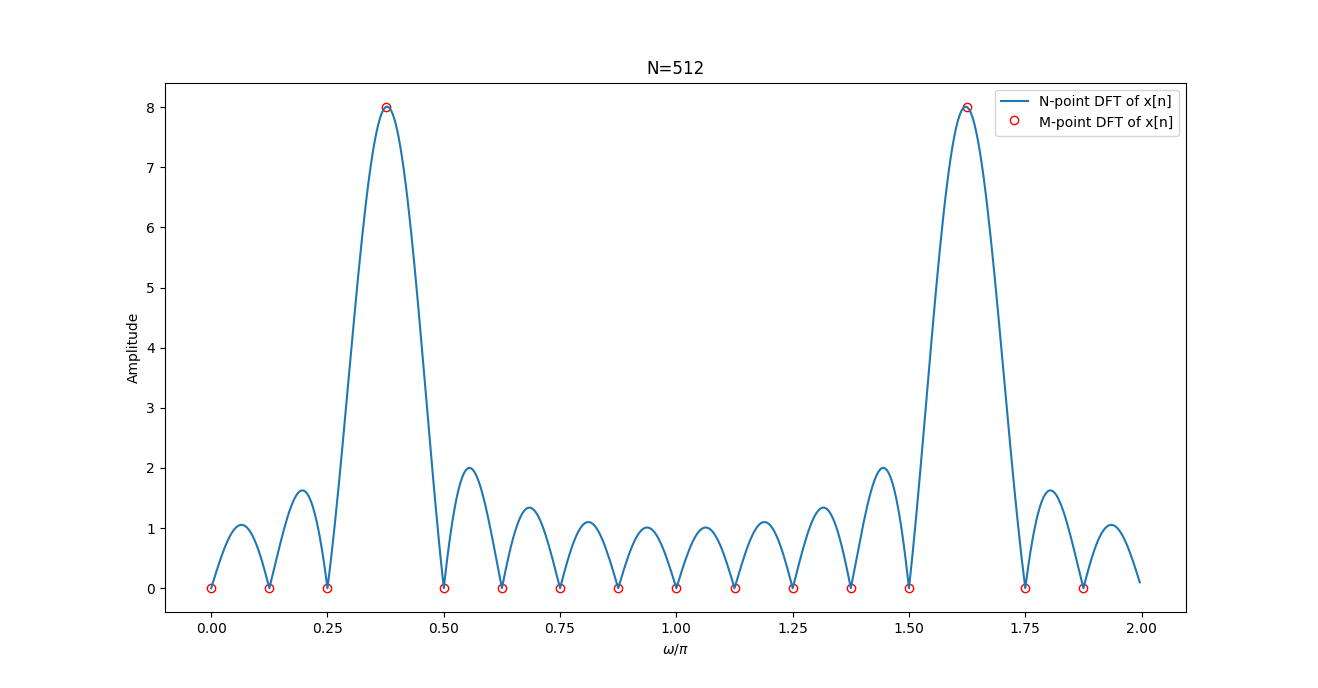
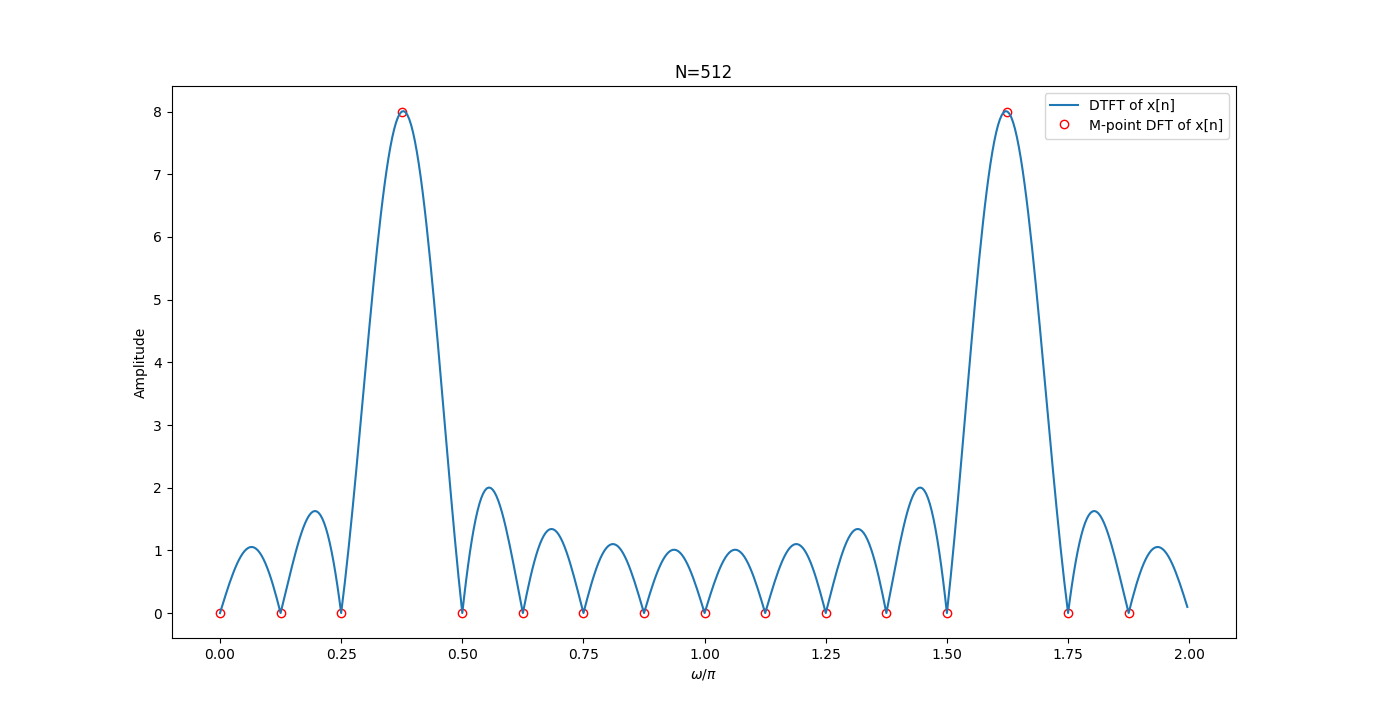
change plot

diff --git a/hw05/program_1/program_01.py b/hw05/program_1/program_01.py
@@ -36,7 +36,7 @@ if __name__ == '__main__':
     plt.setp(baseline,'linestyle','None')
     N=512
     x_n_padding=zero_padding(x_n,N)
-    plt.plot(np.arange(0,2*pi,2*pi/N)/pi,np.abs(DFT(x_n_padding)),label='N-point DFT of x[n]')
+    plt.plot(np.arange(0,2*pi,2*pi/N)/pi,np.abs(DFT(x_n_padding)),label='DTFT of x[n]')
     #x axis 0~2pi
     plt.title('N=%d' %N)
     plt.legend()
